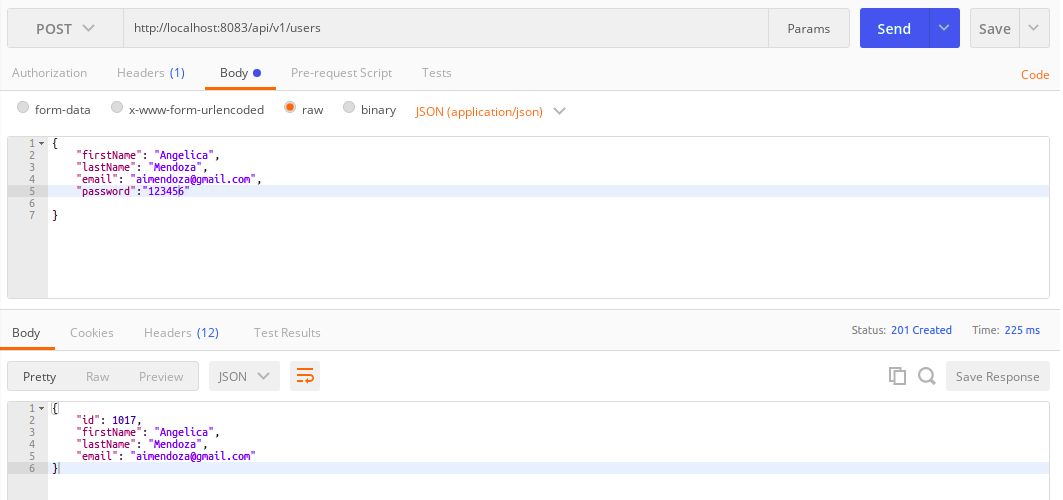
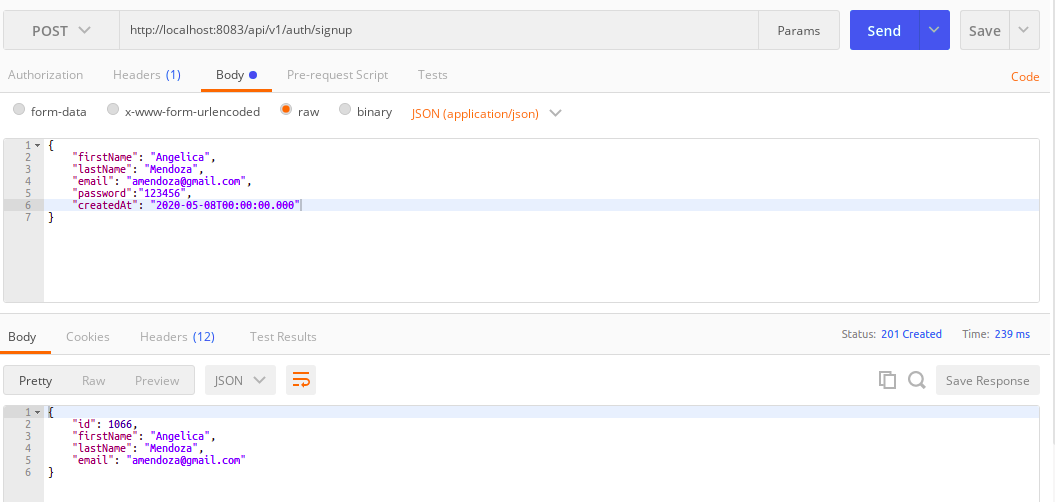
Update README.md

diff --git a/README.md b/README.md
@@ -1,6 +1,6 @@
 # Spring-Boot-Security
 
-Example of RESTful API with Spring Boot and Spring Security. JSON Web Tokens (JWT), Securing URLs using Roles, JPA, DB PostgreSQL, Swagger for RESTful API Documentation. 
+Example of RESTful API with Spring Boot and Spring Security. Securing URLs using JSON Web Tokens (JWT) and GrantedAuthority, JPA, DB PostgreSQL, Swagger for RESTful API Documentation. 
 
 ### Start a PostgreSQL server instance with Docker Hub
 
@@ -18,7 +18,7 @@ jmendoza@jmendoza-ThinkPad-T420:~$ docker inspect postgres
 
 ![Screenshot](/prtsc/Spring-boot-security-4.png)
 
-### Create Users
+### Sign Up - New Users
 
 ![Screenshot](/prtsc/Spring-boot-security-5.png)
 
@@ -26,17 +26,25 @@ jmendoza@jmendoza-ThinkPad-T420:~$ docker inspect postgres
 
 ### BD PostgreSQL
 
-![Screenshot](/prtsc/Spring-boot-security-7.png)
+Table users 
 
 ![Screenshot](/prtsc/Spring-boot-security-8.png)
+
+Table user_role
+
+![Screenshot](/prtsc/Spring-boot-security-8.1.png)
+
+Table role
+
+![Screenshot](/prtsc/Spring-boot-security-8.2.png)
  
 Note: I am using pgAdmin 4 (Container), is a GUI client for PostgreSQL
 
-### Request for JSON Web Token (JWT)
+### Sign In - Request for JSON Web Token (JWT)
 
 ![Screenshot](/prtsc/Spring-boot-security-9.png)
 
-### Get User with JWT
+### Get User with JWT and ROLE_ADMIN Role
 
 ![Screenshot](/prtsc/Spring-boot-security-10.png)
 
@@ -44,7 +52,14 @@ Note: I am using pgAdmin 4 (Container), is a GUI client for PostgreSQL
 
 ![Screenshot](/prtsc/Spring-boot-security-11.png)
 
-## Swagger
+### Get User with JWT and ROLE_USER Role
+
+![Screenshot](/prtsc/Spring-boot-security-11-1.png)
+
+![Screenshot](/prtsc/Spring-boot-security-11-2.png)
+
+
+## Swagger (Pending Update)
 
 http://localhost:8083/swagger-ui.html#/
 
